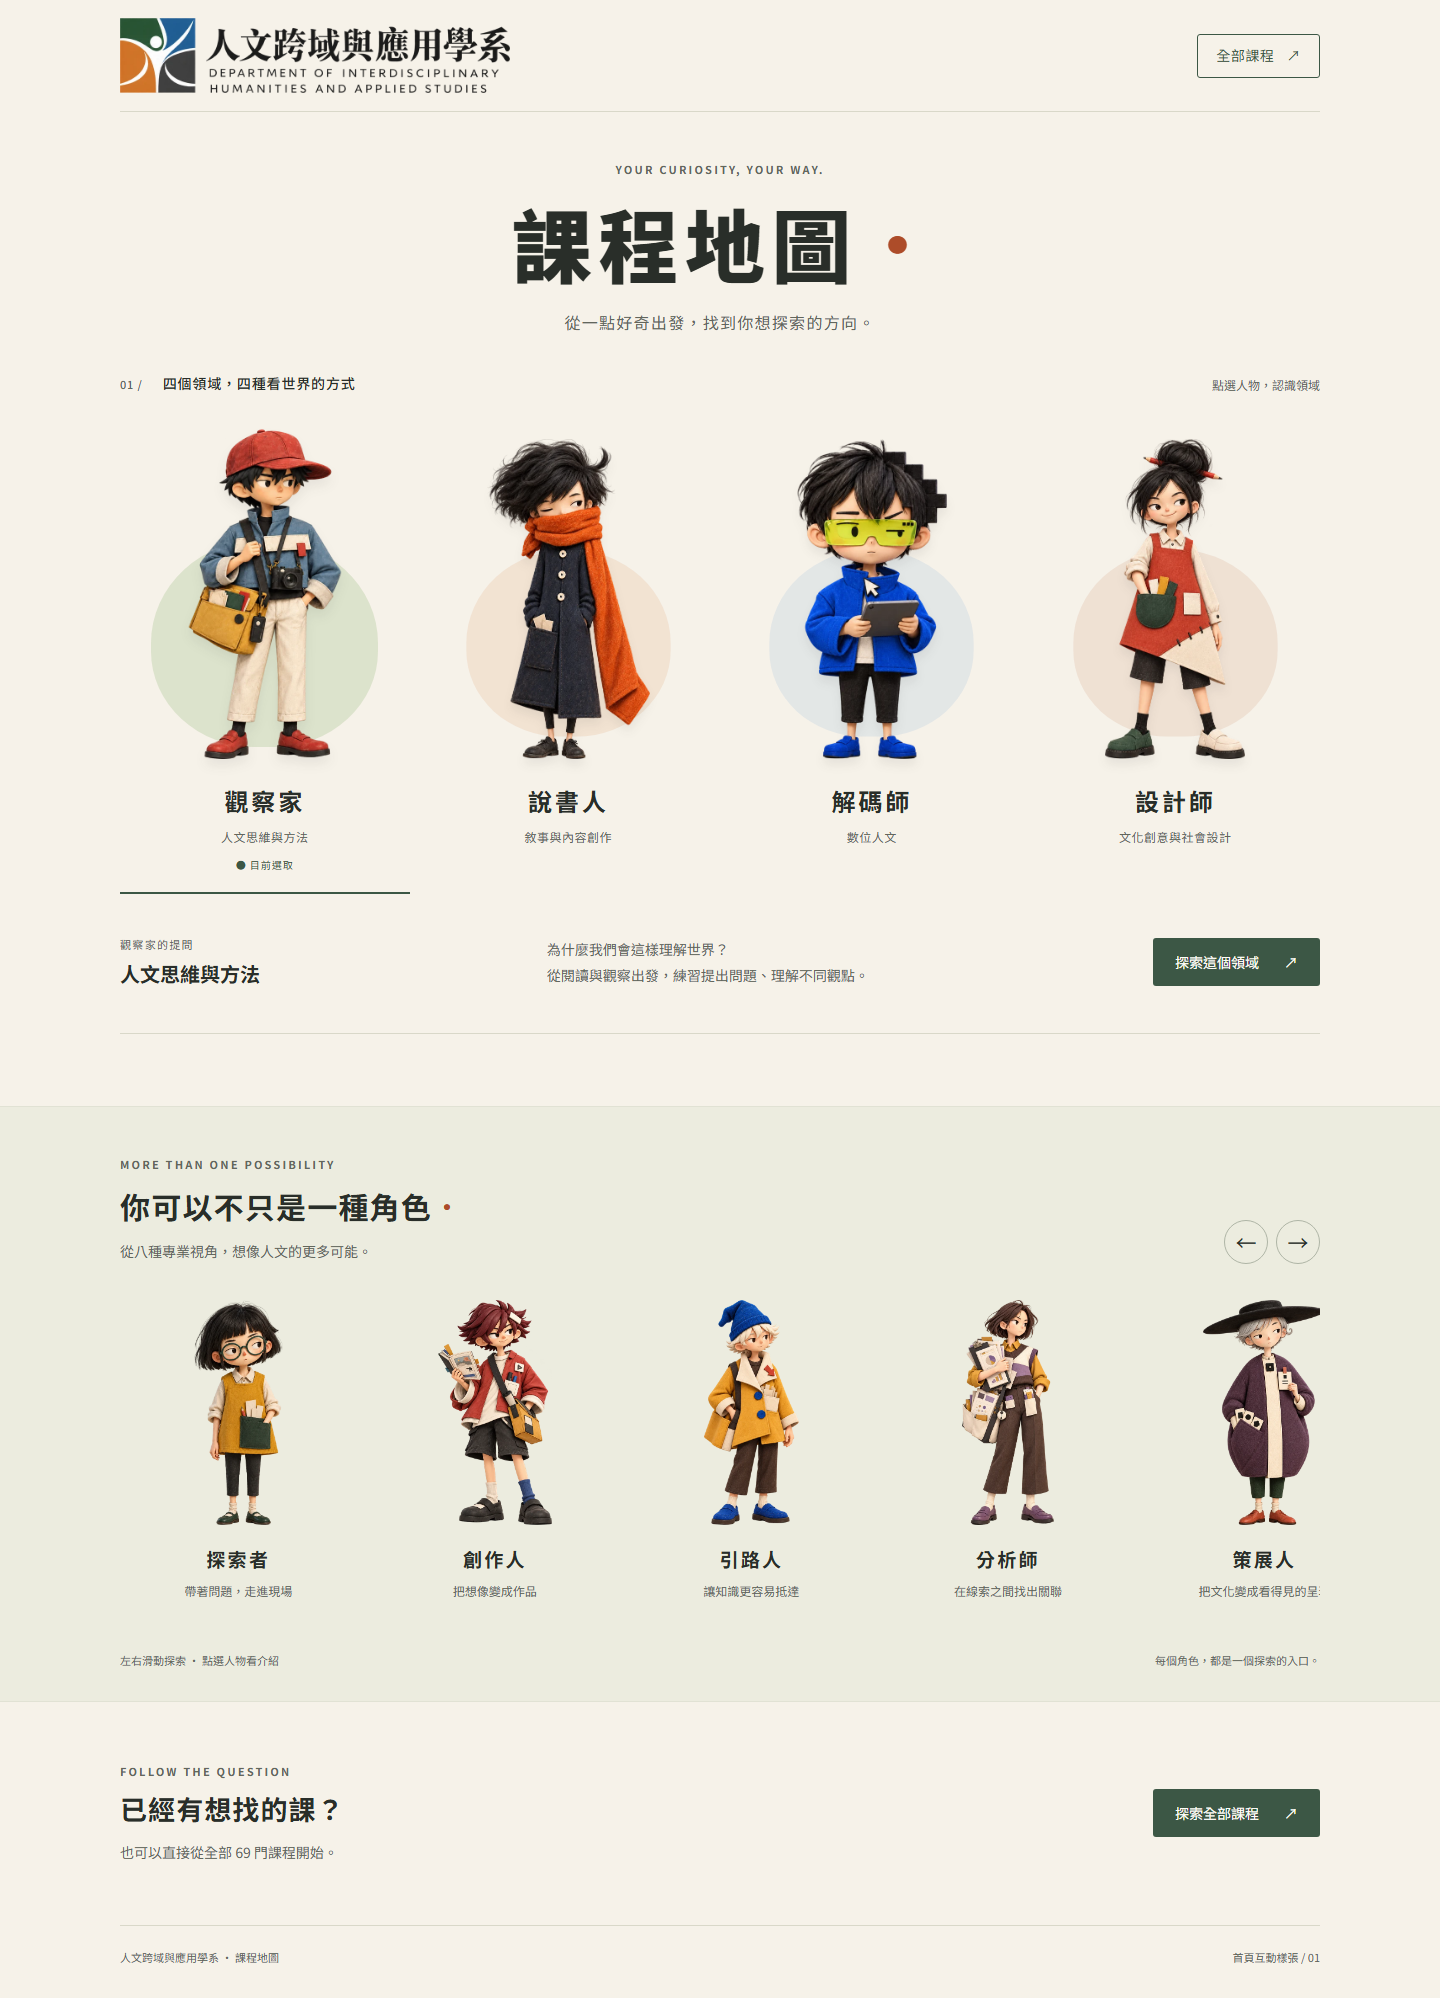
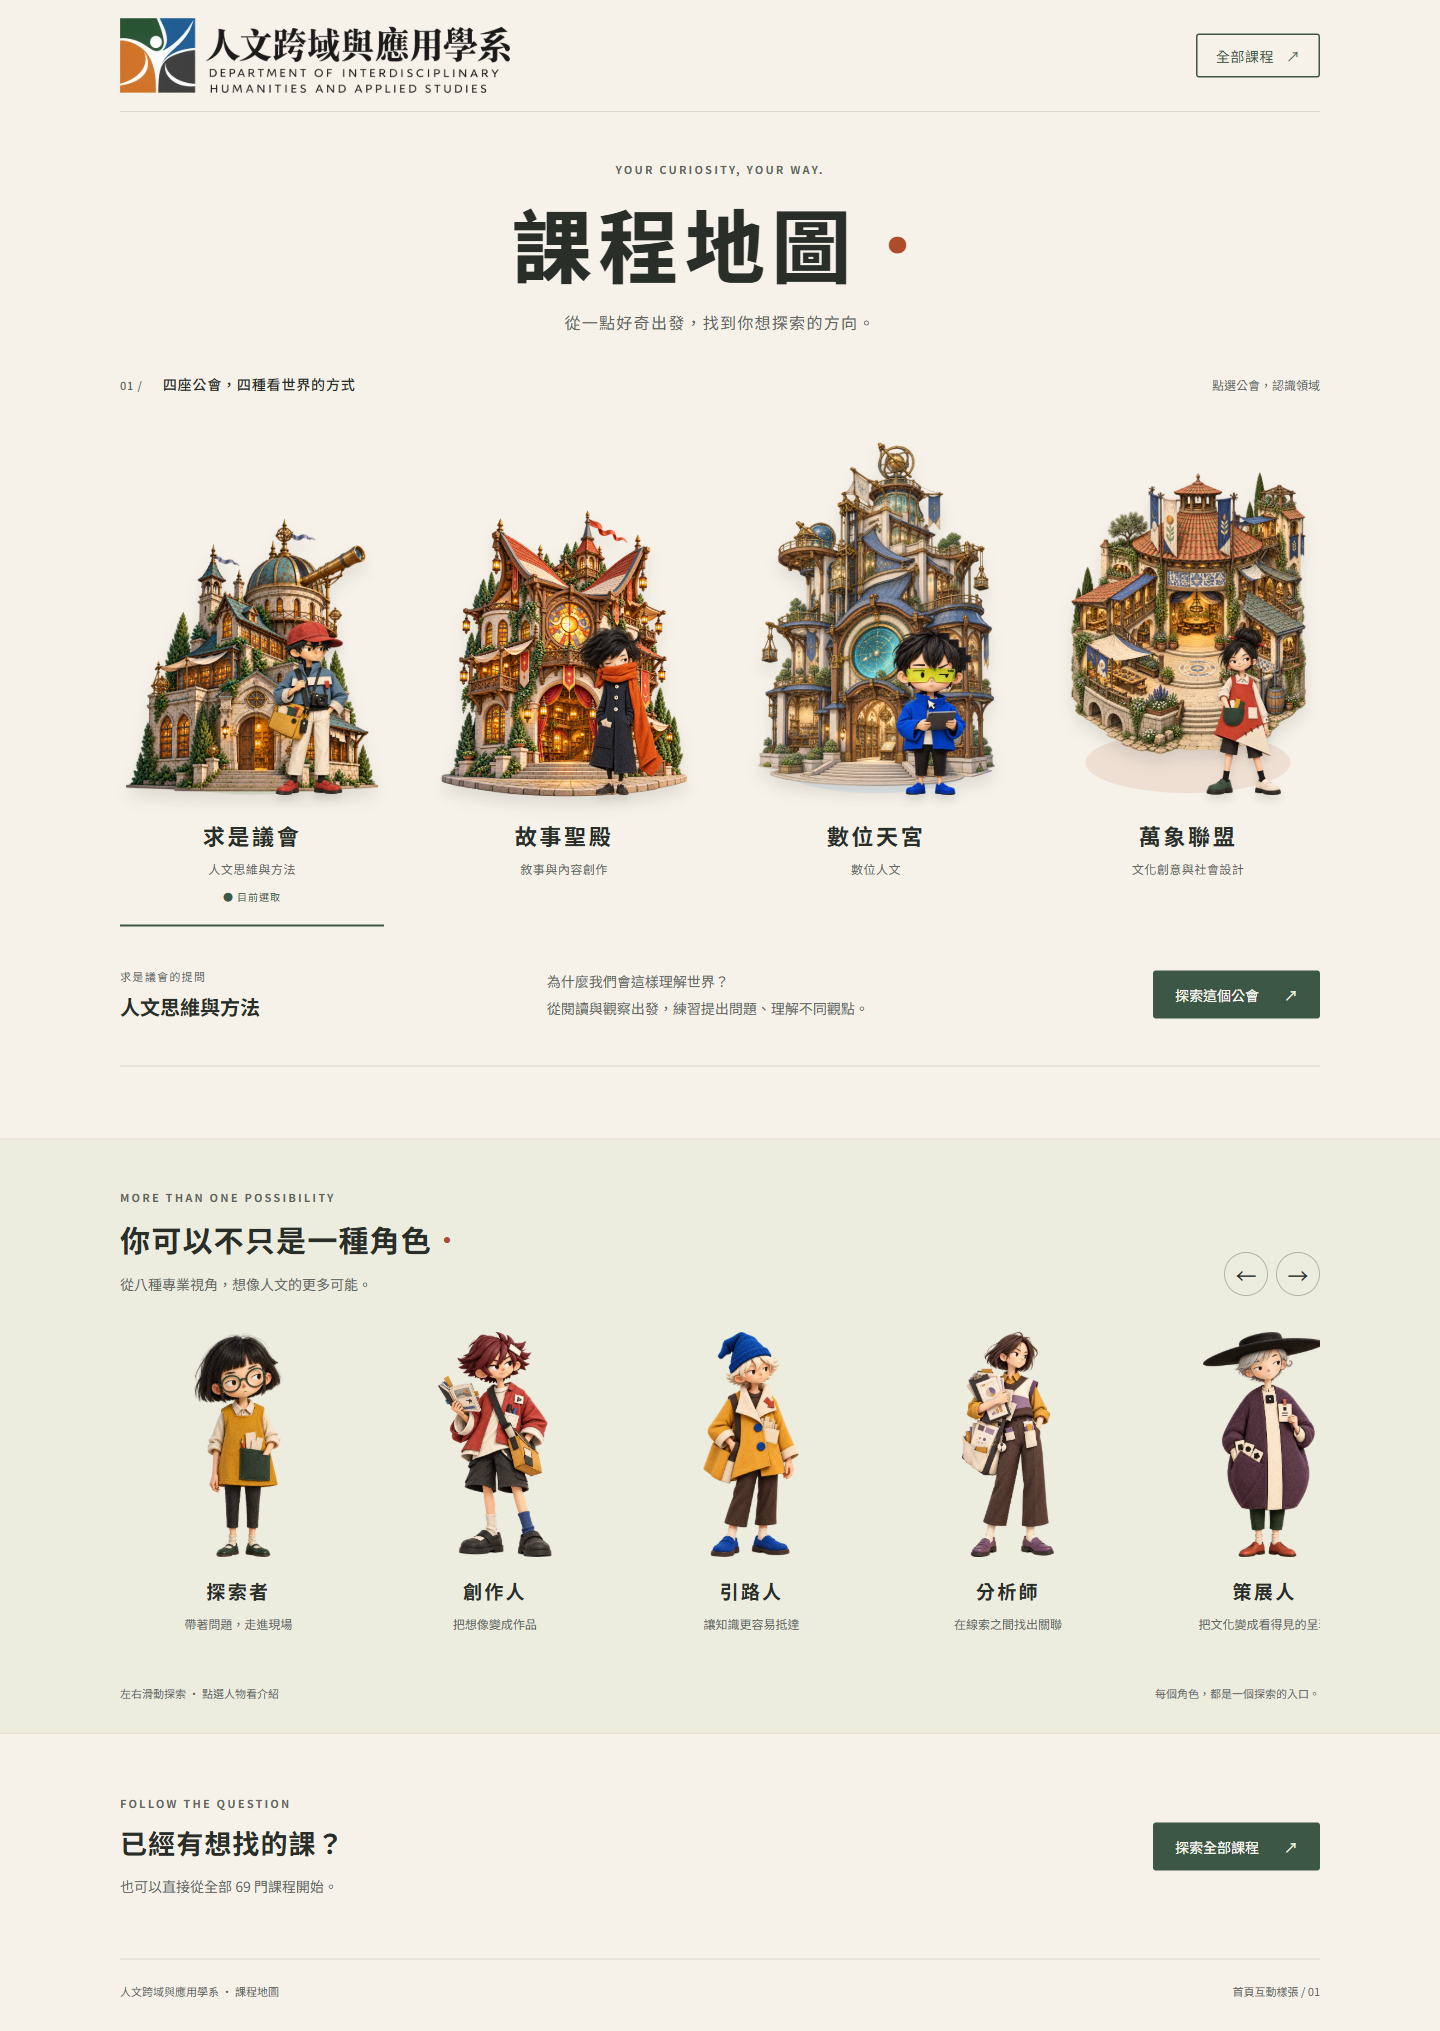
feat: present domains as guild landmarks

diff --git a/doc/design/character-home-20261011/style.css b/doc/design/character-home-20261011/style.css
@@ -65,3 +65,20 @@ dialog::backdrop{opacity:0;transition:opacity 200ms var(--ease-out),overlay 200m
 dialog[open]::backdrop{opacity:1}
 @starting-style{dialog[open]{opacity:0;transform:scale(.97)}dialog[open]::backdrop{opacity:0}}
 @media(prefers-reduced-motion:reduce){dialog,dialog[open]{transform:none!important;transition:opacity 160ms var(--ease-out),overlay 160ms allow-discrete,display 160ms allow-discrete!important}.primary,.button-secondary,.arrow,.domain-tabs button{transition:background-color 120ms ease,color 120ms ease,border-color 120ms ease!important}}
+
+/* Guild landmarks establish the first visual layer; representatives remain in the foreground. */
+.portrait{height:360px;margin-bottom:20px}.portrait:before{width:88%;height:18%;bottom:4px;border-radius:50%;opacity:.45;transform:scale(.94)}
+.domain-card .portrait .guild-building,.domain-card .portrait .representative{position:absolute;object-fit:contain;object-position:center bottom;transform-origin:center bottom}
+.domain-card .portrait .guild-building{z-index:0;width:116%;height:100%;max-width:none;filter:drop-shadow(0 10px 7px #30302a1c);transition:transform 220ms var(--ease),filter 220ms var(--ease)}
+.domain-card .portrait .representative{z-index:1;right:5%;bottom:1%;height:47%;max-width:45%;filter:drop-shadow(0 6px 4px #30302a1c);transition:transform 220ms var(--ease)}
+.domain-card[aria-pressed=true] .guild-building{transform:scale(1.025)}.domain-card[aria-pressed=true] .representative{transform:translateY(-3px) scale(1.05)}
+.guild-name{font-size:22px;font-weight:700;letter-spacing:.12em;line-height:1.5}.domain-sub{margin-top:6px}
+@media(hover:hover) and (pointer:fine){.domain-card:hover .guild-building{transform:scale(1.025)}.domain-card:hover .representative{transform:translateY(-3px) scale(1.05)}}
+@media(max-width:1000px) and (min-width:701px){.portrait{height:310px}}
+@media(max-width:700px){.portrait{height:370px;max-width:300px;margin-bottom:16px}.guild-name{font-size:22px}.representative{right:3%;height:45%;max-width:44%}}
+@media(prefers-reduced-motion:reduce){.guild-building,.representative,.domain-card[aria-pressed=true] .guild-building,.domain-card[aria-pressed=true] .representative,.domain-card:hover .guild-building,.domain-card:hover .representative{transform:none!important}}
+
+/* Keep every guild landmark visually distinct instead of letting oversized cutouts merge together. */
+.domain-track{gap:48px}.domain-card .portrait .guild-building{width:100%}
+@media(max-width:1000px) and (min-width:701px){.domain-track{gap:20px}}
+@media(max-width:700px){.domain-track{gap:16px}}

diff --git a/doc/design/character-home-20261011/index.html b/doc/design/character-home-20261011/index.html
@@ -6,9 +6,9 @@
 <main>
   <section class="hero wrap" aria-labelledby="page-title"><p class="eyebrow">YOUR CURIOSITY, YOUR WAY.</p><h1 id="page-title">課程地圖<span class="title-dot">．</span></h1><p class="lead">從一點好奇出發，找到你想探索的方向。</p></section>
   <section id="domains" class="domains wrap" aria-labelledby="domain-title">
-    <div class="section-line"><h2 id="domain-title"><span class="index">01 /</span> 四個領域，四種看世界的方式</h2><span class="desktop-hint">點選人物，認識領域</span></div>
+    <div class="section-line"><h2 id="domain-title"><span class="index">01 /</span> 四座公會，四種看世界的方式</h2><span class="desktop-hint">點選公會，認識領域</span></div>
     <div class="domain-tabs" aria-label="快速選取領域"></div>
-    <div class="domain-track" aria-label="四大領域人物"></div>
+    <div class="domain-track" aria-label="四座領域公會"></div>
     <div class="mobile-controls"><button class="arrow" id="domain-prev" aria-label="上一個領域">←</button><span id="domain-position">01 / 04</span><span class="swipe-hint">左右滑動，換個視角</span><button class="arrow" id="domain-next" aria-label="下一個領域">→</button></div>
     <div class="domain-detail" id="domain-detail" role="region" aria-label="選取的領域介紹" aria-live="polite" aria-atomic="true"></div>
   </section>

diff --git a/doc/design/character-home-20261011/GUILD_ARCHITECTURE_BRIEF_20261012.md b/doc/design/character-home-20261011/GUILD_ARCHITECTURE_BRIEF_20261012.md
@@ -1,0 +1,130 @@
+# 四大公會建築設計 brief｜第一輪
+
+## 目的
+
+將首頁原本以人物代表的四大領域，重構成四個可進入的「公會」。
+
+- 第一層是公會／學習領域：以建築、名稱與一句探索提問呈現。
+- 第二層是專業人物：八位獨立人物維持為可探索的方向。
+- 原本四位領域人物保留為各公會門前的引導者；畫面與文字不再將其稱為領域名稱或與八位專業人物並列。
+
+此文件只定義視覺與生成方向。尚不生成素材、不替換頁面、不改動 69 門課程資料。
+
+## 第一輪驗收目標
+
+1. 首次觀看者在 3 秒內能辨認四個是「可進入的公會」，而八個是「人物方向」。
+2. 移除人物與文字後，每一棟建築仍能憑輪廓與招牌結構辨識所屬公會。
+3. 每座建築是獨立、完整且可去背的單一資產；不依賴天空、地平線、群眾或相鄰建築才成立。
+4. 建築與既有人物保有同一世界：溫暖紙感、手作材質、立體微縮模型般的動畫感、可見的生活痕跡；避免寫實遊戲截圖或冷硬科幻。
+5. 建築比引導者更有視覺重量；引導者是「在此迎接你的人」，不是另一個領域標誌。
+
+## 共用構圖與資產規格
+
+### 結構
+
+- 每張資產只含一座公會建築，正面略偏三分之四視角，完整看得見屋頂、入口與基座。
+- 建築採垂直構圖，建議透明畫布 `1200 × 1500px`；建築本體約占畫布高度 82–88%，四周保留 6–9% 安全邊界。
+- 預留入口前方平坦空間，讓既有引導者以獨立透明 WebP 疊在建築前方；人物高度約為建築高度的 30–38%。
+- 建築底部可有極薄的石座、階梯或懸浮平台，不能有延伸至畫布邊緣的地景。輸出需真正透明背景，不以米白背景模擬。
+
+### 視覺共同語言
+
+- 使用溫暖、略有顆粒與刷痕的 3D 手作動畫質感；比例可略誇張、屋頂和入口具有童話式戲劇性。
+- 可用木、石、陶、布旗、黃銅、彩繪玻璃、紙張、發光礦石等有觸感的材料；細節要像長年有人使用、修補與留下記號。
+- 允許魔幻寫實，但魔法應服務於知識、故事、製作或連結，不能成為通用的漂浮粒子裝飾。
+- 光線為柔和的側前方日光與少量室內暖光；不採全黑背景、強紫藍霓虹、鏡面金屬、軍事城堡或歐洲中世紀制式城門。
+- 四座建築需要共享同一材質密度、攝影角度和人物世界比例，但不可套同一座房子的換色版本。
+
+### 首頁層級規則
+
+- 卡片主標只顯示公會名稱；原四位人物的名稱不在卡片標題、快速選取或段落標題出現。
+- 領域的學習說明仍可保留，但改用公會的探索語氣，不使建築看起來像純裝飾。
+- 八個專業人物區需有明顯區段標題，例如「探索你的專業方向」；四公會區則標示為「從一座公會開始探索」。
+- 公會選取時以建築、名稱與入口狀態產生回饋；人物不獨立成為可與八角色相同的選項。
+
+## 四座建築
+
+### 01｜求是議會
+
+**對應領域**：人文思維與方法
+**現有引導者資產**：`觀察家.webp`（僅供版面疊放；不作 UI 名稱）
+**核心問題**：我們如何提出問題、閱讀材料並理解不同觀點？
+
+**建築原型**：一座向上生長的議會檔案館與觀測塔。底部是拱形石砌檔案庫，中段有可看見書頁、標記與標本抽屜的窗格，屋頂是偏心的觀測圓頂與一支指向遠方的黃銅望鏡。入口不是威嚴的封閉大門，而是幾層可慢慢走進去的階梯與半開的圓拱門。
+
+**故事線索**：外牆嵌著小型問題牌、被風翻起的索引卡、不同高度的窺視窗；屋頂有一束溫暖光落在望鏡與桌上的紙張。它暗示「找問題、查線索、比對觀點」，而不是博物館式收藏。
+
+**識別輪廓**：不對稱的圓頂＋長望鏡＋層層階梯。即使縮小，也要先看到向上求索的輪廓。
+
+**色彩與材質**：苔綠、舊象牙白、沉靜藍灰、黃銅小件；石材可有手寫刻痕與草本色的窗邊植栽。
+
+**人物站位**：引導者站在最下層階梯左前方，視線略朝入口與望鏡方向；不可遮住入口、望鏡或建築名稱預留區。
+
+**避免**：學校校舍、法院、純圖書館立面、天文台寫實儀器、黑暗學院風、過度神祕的魔法塔。
+
+### 02｜故事聖殿
+
+**對應領域**：敘事與內容創作
+**現有引導者資產**：`說書人.webp`（僅供版面疊放；不作 UI 名稱）
+**核心問題**：你的故事可以如何被寫下、演出與傳播？
+
+**建築原型**：一座由劇場、故事書庫與紙頁屋頂組成的聖殿。主體像一冊半開的巨書形成雙翼屋頂，中間是溫暖的舞台入口；高處有圓形彩繪玻璃窗，兩側以垂落的布幔、紙燈與小陽台表現不同媒介的敘事。
+
+**故事線索**：入口旁有可翻轉的節目牌、從窗內露出的書脊與捲軸、懸在空中的紙燈；一張小小的空白海報暗示「下一個故事還沒被寫下」。所有細節應讓人感覺內容正在被寫、被說、被看見。
+
+**識別輪廓**：展開書頁般的雙翼屋頂＋中央舞台拱門＋圓形花窗。縮小時應像一座正在張開的故事書。
+
+**色彩與材質**：暖陶紅、杏橘、羊皮紙米色、墨綠與琥珀光；布幔、紙張、木雕與彩色玻璃要有可辨觸感。
+
+**人物站位**：引導者立於入口前偏右、靠近節目牌處，姿態像剛邀請人進場；舞台拱門與花窗必須完整可見。
+
+**避免**：宗教崇拜符號、教堂複製品、只有圖書館書架、電影戲院招牌、童話城堡或單純巨大書本。
+
+### 03｜數位天宮
+
+**對應領域**：數位人文
+**現有引導者資產**：`解碼師.webp`（僅供版面疊放；不作 UI 名稱）
+**核心問題**：當人文材料遇上數位工具，能發現與做出什麼？
+
+**建築原型**：一座由資料工坊、編碼塔與展示平台拼接而成的數位天宮。建築不應是摩天大樓，而像由匠人逐步向上打造的垂直殿閣：齒輪驅動的升降台、模組化窗格、露出的資料線路，以及用藍綠光讀取圖樣的中央工作台。
+
+**故事線索**：透明窗內可見打孔紙帶、圖像標註板、發光的地圖碎片與小型機械手；屋頂以像素化屋瓦或摺疊面板暗示轉譯。技術細節要能看出「整理、解碼、製作、呈現」，也要仍然有人文材料的溫度。
+
+**識別輪廓**：層疊向上的殿閣式工坊塔＋外露齒輪／軌道＋藍綠發光的中央窗。縮小時看得出是一座正在運作的數位天宮。
+
+**色彩與材質**：靛藍、青綠、霧灰、暖木色與少量黃銅；光源是工具與資料發亮，不使用大量霓虹。
+
+**人物站位**：引導者站在前方右側的小型操作平台，與中央工作台形成視線關係；不能遮住外露機構與發光主窗。
+
+**避免**：賽博龐克街景、玻璃帷幕科技總部、機器人城市、只有電路板貼圖、冷白實驗室或侵略性武器機械。
+
+### 04｜萬象聯盟
+
+**對應領域**：文化創意與社會設計
+**現有引導者資產**：`設計師.webp`（僅供版面疊放；不作 UI 名稱）
+**核心問題**：如何將地方、人的需求與創意，變成可共同實踐的提案？
+
+**建築原型**：一座多入口、多材質相連的聯盟會所。核心是圓形公共廳，周圍伸出如橋、棚架、工作坊與小花園般的構件；它不追求左右絕對對稱，而要像來自不同社群的部分逐漸被接在一起，最終形成可聚集、可製作、可討論的場所。
+
+**故事線索**：可見的共用長桌、公告旗、被修補的座椅、地方圖樣磁磚、雨水收集槽與小型展示架；入口可有兩條不同的路匯入一個圓形廣場。細節應帶出合作、地方觀察、試作與長期照顧。
+
+**識別輪廓**：中央圓廳＋兩至三條匯入的橋／棚架＋高低不同的布旗與屋頂。縮小時要能看出「許多路走向同一處」。
+
+**色彩與材質**：陶土橘、磚紅、鼠尾草綠、木色、米白與少量靛藍織布；可以有陶磚、回收木料、布旗與植栽，但不是市集攤位。
+
+**人物站位**：引導者站在中央入口前偏左，面向匯入的路徑；保留圓廳、橋梁交會與公共長桌等核心敘事元素。
+
+**避免**：企業總部、單一豪華博物館、只有商店街、純農村小屋、貧困化的社區意象，或把「多元」畫成雜亂拼貼。
+
+## 生成與審稿順序
+
+1. 先生成「求是議會」單棟建築，連同既有 `觀察家.webp` 做一次首頁疊放測試。
+2. 檢視在桌面、390px 手機版與縮圖時，公會／人物／八專業角色是否仍可快速分層。
+3. 確認其材質、鏡頭與視覺重量後，再生成其餘三座；四座須作為同一組資產共同審稿。
+4. 使用者確認建築與既有人物站位後，才修改首頁名稱、文案、元件結構及資產載入。
+
+## 第一輪決策點
+
+- 公會名稱是否使用目前四個名稱並依本文件順序對應原四領域？
+- 「聖殿」是否保留；其建築將使用文化與故事儀式感，但排除任何特定宗教符號。
+- 人物是否只作靜態前景引導，或仍可點選來觸發同一個公會資訊？建議後者，保留可用性但讓按鈕與標題只指向公會。
